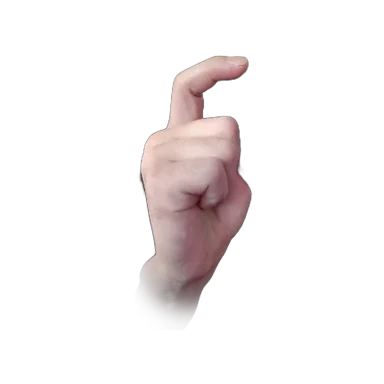
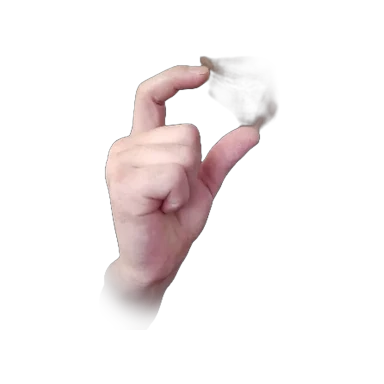
fix: use grading-safe handshape assets

Changed region(s): [[0.25, 0.125, 0.7188, 0.8438]]

diff --git a/public/handshapes/SOURCES.md b/public/handshapes/SOURCES.md
@@ -12,9 +12,10 @@ One real signer photo per Arabic letter (28 seeded letters + the 3 edge forms
 - **Normalisation:** the photos are landmark-framed, background-removed cutouts
   on transparent 384×384 canvases at a uniform hand scale. Orientation is never
   altered because direction is part of the sign. `alpha-laa.webp` remains the
-  original photo because no hand was detected in the source; `alpha-meem.webp`
-  remains the original photo because the hand could not be reliably detected
-  after masking.
+  original photo because no hand was detected in the source, and
+  `alpha-meem.webp` remains the original photo because the hand could not be
+  reliably detected after masking. `alpha-ra.webp` also remains the original
+  photo because the in-app grading guard could not recognise its cutout.
 - **Selection:** for each letter, candidates were scored by (a) distance of
   their MediaPipe landmarks — normalised exactly like `src/recognizer/
 normalize.ts` — to that letter's mean shape in `src/recognizer/seeds/
